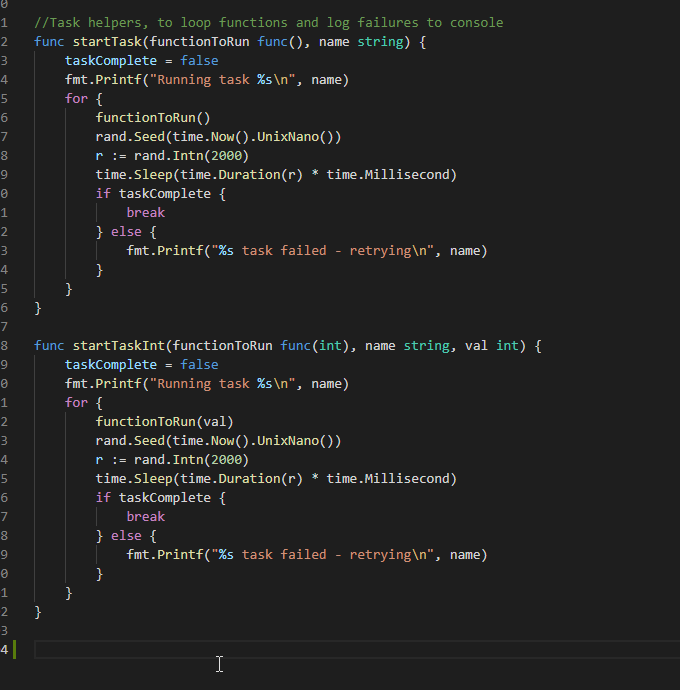
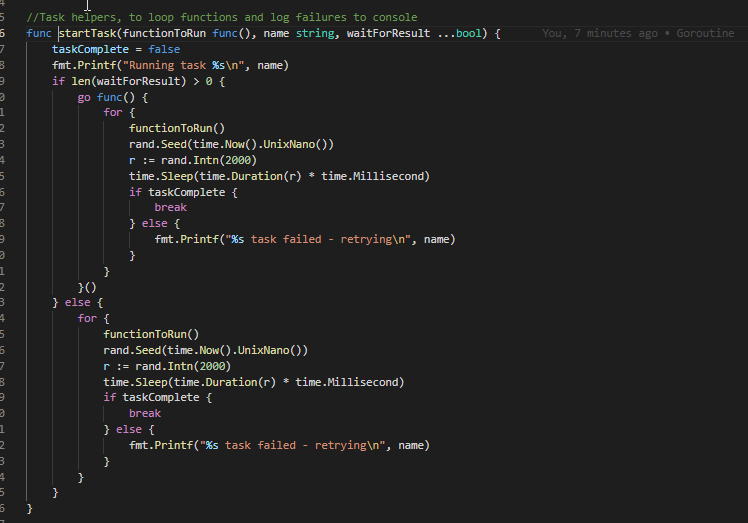
Added images
for readme

diff --git a/shopify/shopify.go b/shopify/shopify.go
@@ -85,26 +85,30 @@ func Shopify() {
 
 var taskComplete = false
 
+//PreCart demo is a concept ideea not fully tested.
+//The ideea being that in order to create a shipping session an item is required in cart, once this has been created we are able to submit shipping, customer and create a payment agreement.
+//Changing the item quantity to 0 removes it frrom cart but does not remove out shipping session or payment agreement. As soon as we add to cart again we instantl try and submit our payment agreement and checkout.
 func FrontEndPreCartDemo() {
 	startTask(CreatePaymentSession, "PaymentSession")
-	_offerid = "32521243820103"
 	startTask(ShopifyAddToCartStandard, "AddToCartFakeId")
 	startTask(ExtractShippingRates, "GetShippingRates")
 	startTask(LoadCheckoutForm, "LoadCheckoutForm")
 	startTask(SubmitCustomerInfo, "SubmitTheCustomerInfo")
 	startTask(ExtractShippingToken, "ExtractTheShippingToken")
 	startTask(SubmitShippingMethodDetails, "SubmitShippingMethodDetails")
+
+	//The monitoring starts here. Now that the session has been created and payment agreement has been made. We remove the fakePID
 	startTaskInt(ShopifyChangeCart, "RemoveFakeProductFromCart", 0)
-	_offerid = "39499044323399"
+
+	//Now we set our offerID to the REAL pid and attempt to add to cart
+	offerId = "39499044323399"
 	startTask(ShopifyAddToCartStandard, "AddToCartRealId")
-	startTask(ExtractPaymentGatewayId, "GetPaymentGatewayId")
+	startTask(ExtractPaymentGatewayId, "GetPaymentGatewayId", true)
 	startTask(SubmitPayment, "SubmitThePaymentUrl")
 	startTask(CheckPaymentProcess, "CheckPaymentStatus")
 }
 
 func FroneEndDemo() {
-	//_offerid = "39488656244795"
-
 	startTask(CreatePaymentSession, "PaymentSession", true)   //Dont wait as we dont us this until the end.
 	startTask(ShopifyAddToCartStandard, "AddToCartId")        //we must wait for this as 1. Its basically the monitor and 2. It wont submit checkout form without this being complete
 	startTask(ExtractShippingRates, "GetShippingRates", true) //If we are here then ATC was succcess, run async as then if it fails it'll just fail later in the task anyway and its unrecoverable, no point in waiting.
